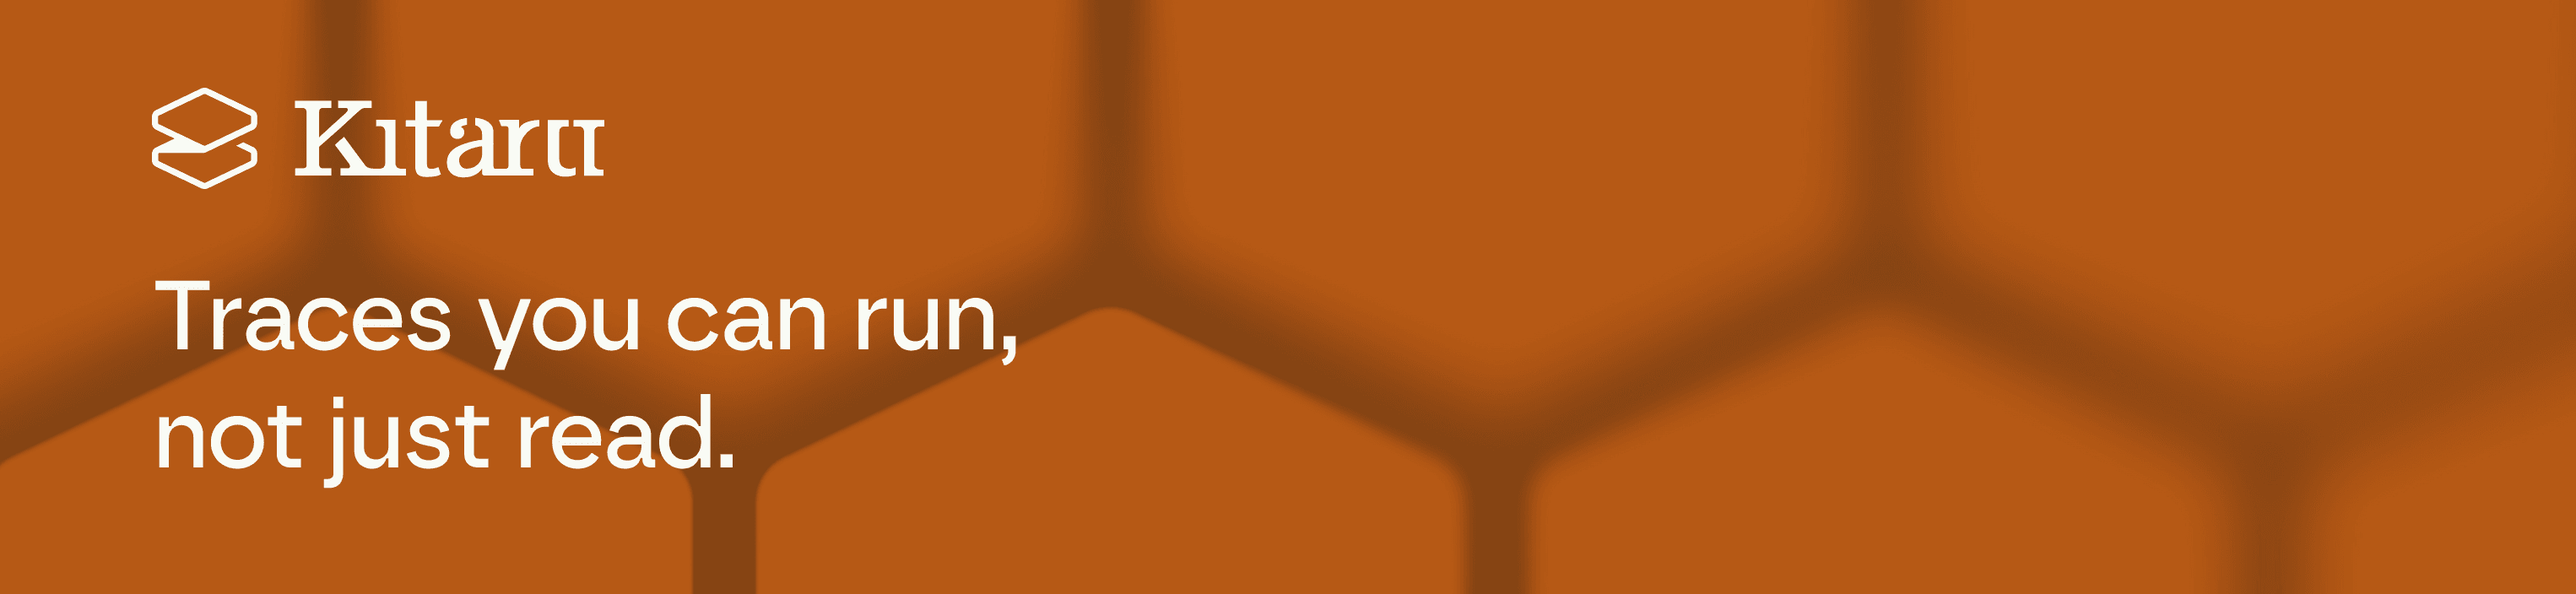
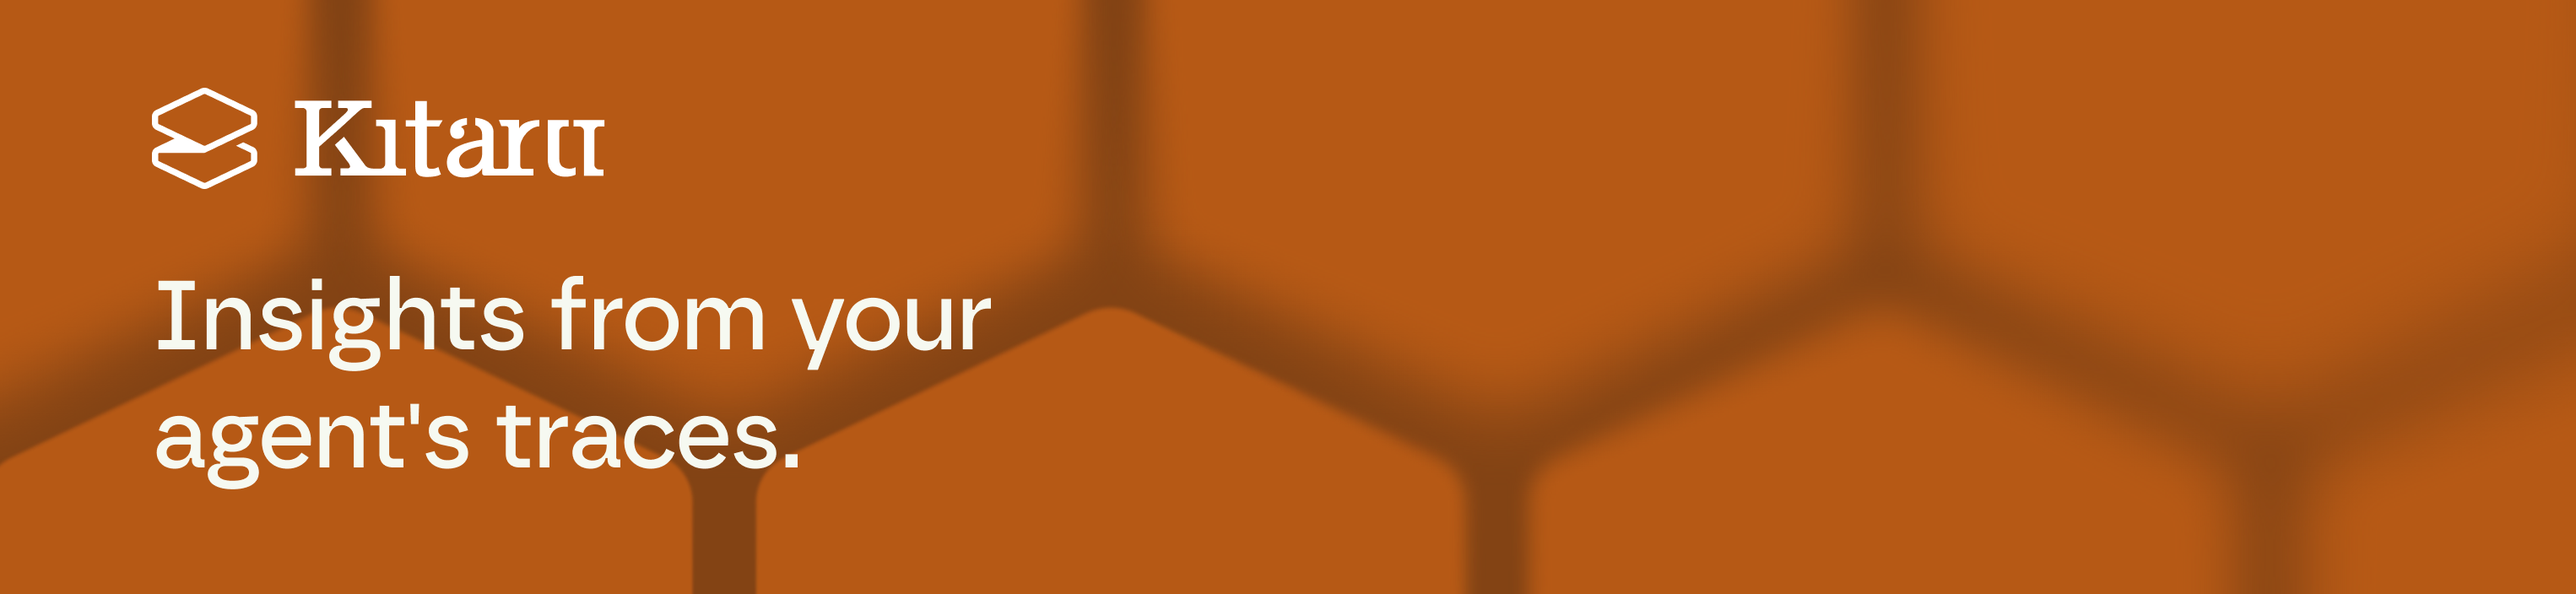
docs: update README header to the insights tagline
Closes #1410.

Changed region(s): [[0.0623, 0.4688, 0.4047, 0.625], [0.0623, 0.6562, 0.3113, 0.8438]]

diff --git a/README.md b/README.md
@@ -1,6 +1,6 @@
 <p align="center">
   <a href="https://docs.zenml.io/kitaru">
-    <img src="assets/kitaru_header.png" alt="Kitaru — Traces you can run, not just read." width="900">
+    <img src="assets/kitaru_header.png" alt="Kitaru — Insights from your agent's traces." width="900">
   </a>
 </p>
 
